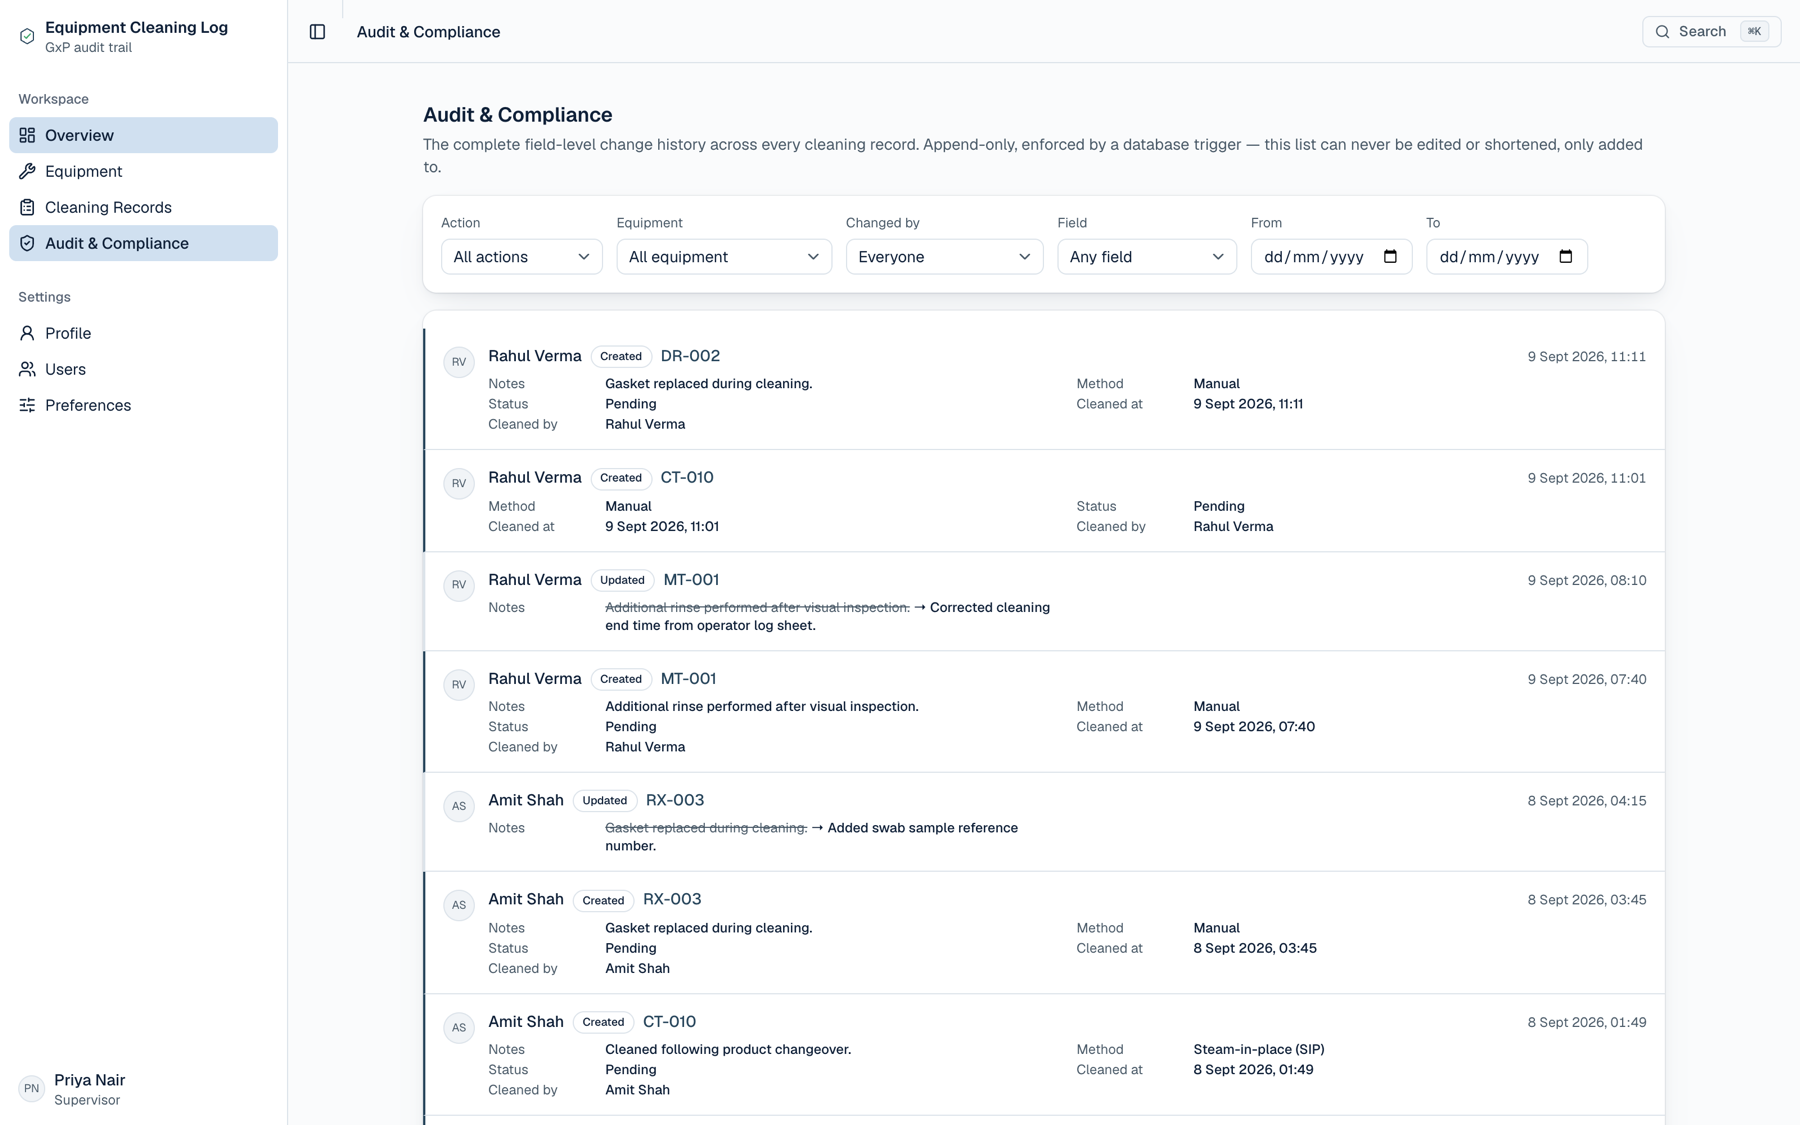
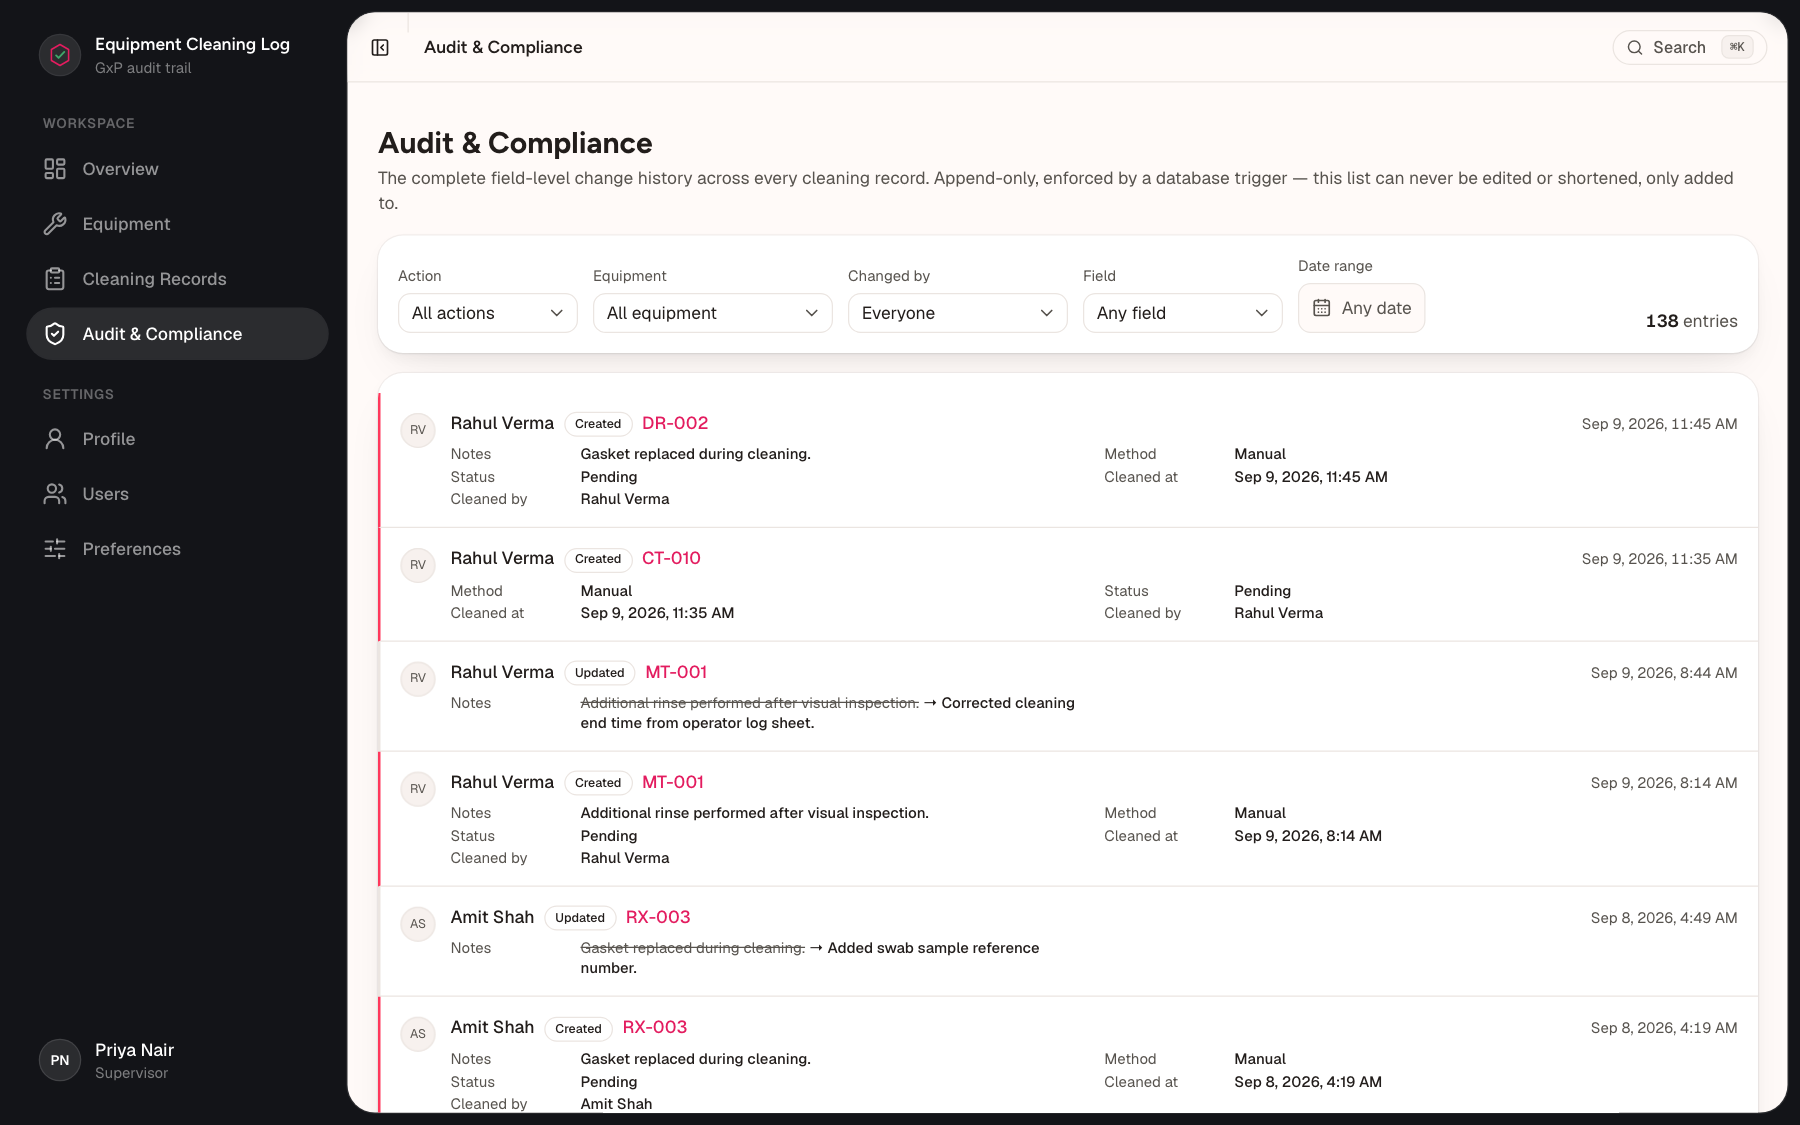
docs: recapture the app screenshots, add the design canvas
The five marketing screenshots were taken from a pre-redesign build — light
sidebar, native date inputs, no shell frame or gradient hero band — so the
landing page and the README were advertising a UI that no longer exists.
Recaptured all five from HEAD at 1440x900 @1.25 DSF, which keeps the 1800x1125
output the markup already declares.

The audit-trail dialog shot moves to MT-001, whose newest record carries an
amendment: the trail then shows an actual field-level diff rather than only the
"record created" entry every record has.

Alt text follows the new frames — "recent audit activity" is below the fold on
Overview now, and the audit page shot is unfiltered.

The README's design section leads with the whole board on one canvas instead of
the four diagrams one at a time; NOTES.md keeps those, so both readings stay
available.

diff --git a/apps/web/src/features/landing/sections/Hero.tsx b/apps/web/src/features/landing/sections/Hero.tsx
@@ -53,7 +53,7 @@ export function Hero() {
           <div className="overflow-hidden rounded-[1.75rem] bg-card ring-1 ring-foreground/[0.08] shadow-[var(--shadow-card-hover)]">
             <img
               src="/marketing/overview.png"
-              alt="The Overview dashboard, showing equipment status, the verification backlog, and recent audit activity"
+              alt="The Overview dashboard, showing the verification backlog, record counts, and the last 30 days of cleaning and verification activity"
               className="w-full"
               width={1800}
               height={1125}

diff --git a/apps/web/src/features/landing/sections/CapabilityBento.tsx b/apps/web/src/features/landing/sections/CapabilityBento.tsx
@@ -67,7 +67,7 @@ export function CapabilityBento() {
             </div>
             <img
               src="/marketing/audit.png"
-              alt="The Audit and Compliance page, filtered to a single actor's changes across every asset"
+              alt="The Audit and Compliance page: every field-level change across every asset, filterable by actor, equipment, action, and field"
               className="h-full w-full border-t object-cover md:border-t-0 md:border-l"
             />
           </div>

diff --git a/README.md b/README.md
@@ -29,7 +29,7 @@ while it wakes.** Everything after that is fast, and the form tells you what it 
 landing page is static and always loads immediately — a slow *sign-in* is the API waking, not a
 broken app.
 
-[![The Overview dashboard: verification backlog, 30-day activity chart, recent audit activity](./apps/web/public/marketing/overview.png)](https://pharmaceutical-dashboard.vercel.app/)
+[![The Overview dashboard: the verification backlog, record counts, and the 30-day activity chart](./apps/web/public/marketing/overview.png)](https://pharmaceutical-dashboard.vercel.app/)
 
 | | |
 |---|---|
@@ -405,19 +405,21 @@ Config lives in [`render.yaml`](./render.yaml) and [`apps/web/vercel.json`](./ap
 
 ## Design artifacts
 
-Drawn while designing the system. The code is the source of truth; each links to a page with the
-detail behind it.
+Drawn while designing the system — the whole thing on one canvas: the product flow, the data model,
+the API surface, and the write path that ties them together. The code is the source of truth; each
+area below links to a page with the detail behind it.
+
+[![The design canvas: product flow, database design, API contract, and the request-to-response write path on one board](./docs/diagrams/whole-flow.png)](./docs/diagrams/whole-flow.png)
+
+*Open the image for full resolution.* The four diagrams are also embedded one at a time in
+[NOTES.md](./NOTES.md#the-system-at-a-glance).
 
 ### Product flow
-
-![Product flow: equipment, cleaning record, verification, audit log](./docs/diagrams/product-flow.png)
 
 Equipment → cleaning event → verification → audit trail. Every change, the verification included,
 lands in the trail. → [detail](./docs/01-product-flow.md)
 
 ### Database design
-
-![Database design: users, equipment, cleaning records, audit logs](./docs/diagrams/database-design.png)
 
 Two separate references from `User` into a cleaning record — who *performed* it and who *signed it
 off* — plus a third from the audit log for who *edited* the row. Those being three different people
@@ -425,14 +427,10 @@ is the point of the model. → [detail](./docs/02-database-design.md)
 
 ### API contract
 
-![API contract: auth, equipment CRUD, nested cleaning records, audit](./docs/diagrams/api-contract.png)
-
 The core surface. Supporting routes — the two cross-equipment reads, provisioning, dashboard,
 health — are in the → [detail](./docs/03-api-contract.md)
 
 ### Request → response
-
-![Request to response: the transaction opens, reads inside it, diffs, writes both rows, commits](./docs/diagrams/request-response.png)
 
 The transaction opens *before* the prior state is read, at `SERIALIZABLE`, and the record update and
 audit insert commit together or not at all. That ordering is the whole defence — see
